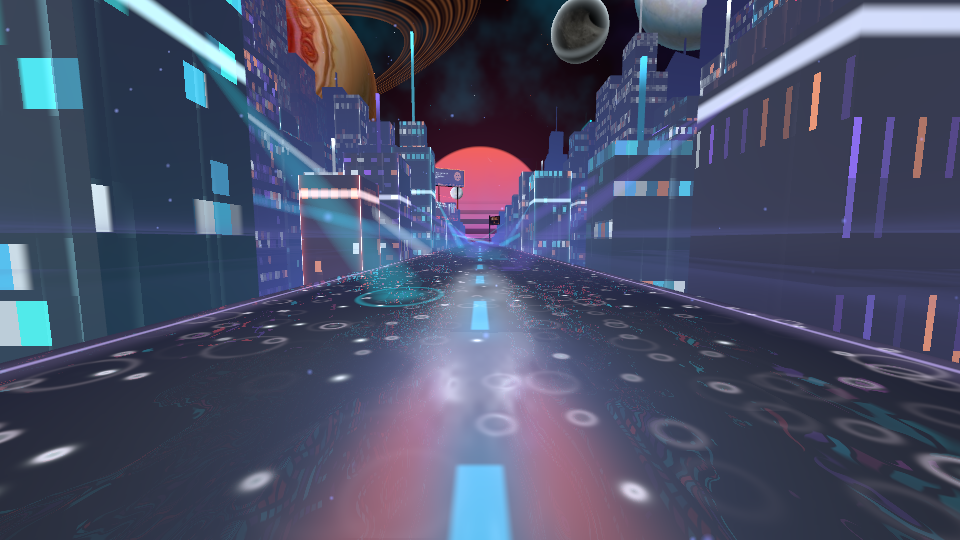
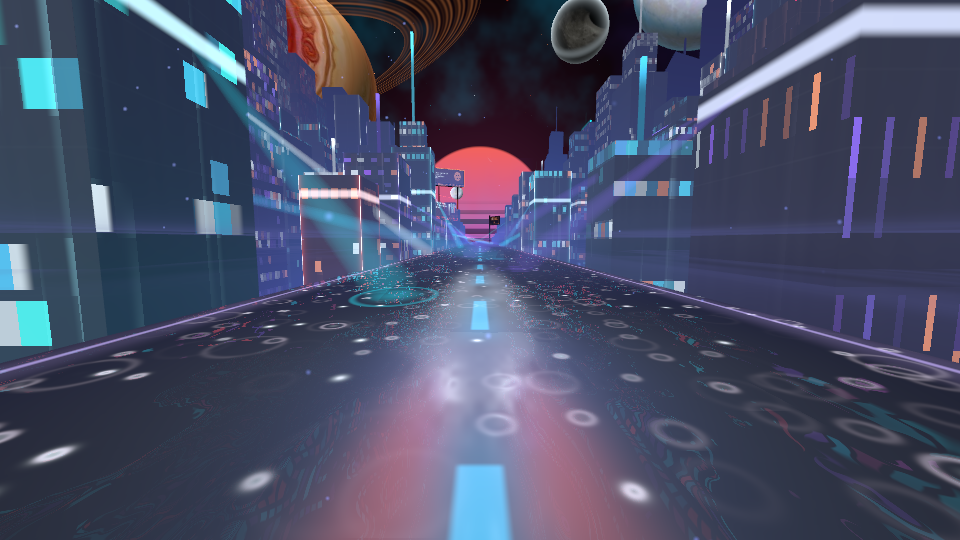
C4 : façades égaliseur (spectre dans SceneLight), micro-détail du béton, critère de palette mesuré, captures, journal
Claude-Session: https://claude.ai/code/session_018Ewppj4B38uuL8ceEto8xj

diff --git a/crates/cf-world-neon/src/atmosphere/light.rs b/crates/cf-world-neon/src/atmosphere/light.rs
@@ -279,8 +279,8 @@ impl SceneLight {
             source: rel(self.source).extend((self.ground_y - origin.y) as f32),
             ..SceneLightParams::default()
         };
-        for (i, quad) in self.spectrum.chunks_exact(4).enumerate() {
-            out.spectrum[i] = Vec4::new(quad[0], quad[1], quad[2], quad[3]);
+        for (slot, quad) in out.spectrum.iter_mut().zip(self.spectrum.as_chunks::<4>().0) {
+            *slot = Vec4::from_array(*quad);
         }
         for (i, tube) in self.tubes.iter().enumerate() {
             out.tube_pos[i] = rel(tube.position).extend(0.0);

diff --git a/docs/worldbuilding/CHANTIERS.md b/docs/worldbuilding/CHANTIERS.md
@@ -170,7 +170,7 @@ visuelle `Δ`.
 
 **Acceptation**
 
-- [ ] Critère de palette de DA §1.1 sur capture (70 % des émissifs dans la dominante ou l'accent, `ice` < 2 %).
+- [~] Critère de palette de DA §1.1 sur capture (70 % des émissifs dans la dominante ou l'accent, `ice` < 2 %). (tenu : 93 %, 93 %, 74 % ; teintes prises aux pics de l'histogramme, sans post-traitement)
 - [x] Une fenêtre ne dépasse jamais `0,9·θ_b` (test du shader ou de la fonction miroir en Rust).
 - [x] Toujours un seul lot de dessin pour les pavés de la ville. (aucun matériau ni maillage ajouté : un champ d'uniformes de plus)
 - [x] Captures `docs/captures/C4/` : sec, mouillé, kick, calme contre sommet.
@@ -329,7 +329,7 @@ Statuts : ⬜ à faire · 🟨 en cours (le journal dit où reprendre) · ✅ te
 | C1 | Signaux et dramaturgie | ✅ | voir `git log` (dernier commit « C1 ») | Sur le matériel cible : seuils de `z` des transitoires et étalonnage `FFT_TO_RMS` sur une vraie entrée ligne/micro ; ressenti du creux d'avant-drop. Routage non encore lu par les shaders (C2 à C4). |
 | C2 | Image finale | ✅ | voir `git log` (« C2 ») | Critères `[~]` : Ȳ et bloom mesurés sur la démo, pas sur la ville (à refaire en C3/C4) ; référence de parité Sillage non régénérée (bun/Playwright absents) ; remise à zéro GPU de la persistance non testée ; rayons à valider à l'œil. Matériel cible : cadence, bloom fin, couleurs sur projecteur. |
 | C3 | Atmosphère et profondeur | ✅ | voir `git log` (« C3 ») | Critères `[~]` : séparation des plans à rejuger sur capture après C4 (corps de façade trop clairs aujourd'hui) ; coût GPU aux trois paliers non mesuré. Matériel cible : densité `σ_t·ρ` et luminance de la brume sur projecteur, lisibilité de la coquille de kick, taille des poussières. `FogReach` publié mais pas encore lu par le culling (C7) ; `AtmosphereLook::apnea` pas encore écrit (EV4, C7) ; `SceneLight` (principale, remplissage, contre-jour) publié mais l'ombrage des faces est pour C4. |
-| C4 | Sol, façades et matériaux | 🟨 | voir `git log` (« C4 ») | Fait : relief des façades, fenêtres hiérarchisées et plafonnées, grain, flaque de lumière et ondes de kick de la route. Reste : rugosité réactive, reflet des fenêtres aligné, micro-détail et halo des façades, vu-mètre, néons à cœur blanc, fenêtres habitées, critère de palette. Voir le journal (point de reprise numéroté). |
+| C4 | Sol, façades et matériaux | 🟨 | voir `git log` (« C4 ») | Fait : relief des façades, fenêtres hiérarchisées et plafonnées, vu-mètre, micro-détail, néons d'arête à cœur blanc, grain, flaque de lumière, ondes de kick et reflet des fenêtres de la route. Reste : fenêtres habitées, halo des sockets, profil néon des enseignes, rugosité réactive ; vu-mètre à juger à l'œil. Voir le journal (point de reprise numéroté). |
 | C5 | Ville : distribution et archétypes | ⬜ | — | — |
 | C6 | Ville : habillage | ⬜ | — | — |
 | C7 | Tunnel, événements, LOD et culling | ⬜ | — | — |
@@ -364,6 +364,15 @@ non tenus et pourquoi, point de reprise si le chantier reste 🟨.
 - `facade_reflection` (route) suit la hiérarchie des fenêtres (`0,18 + 0,42·Δ`, étages entiers) : le reflet ne montre plus
   davantage de fenêtres que la façade.
 
+**Fait (vu-mètre, micro-détail, palette)**
+- Façades égaliseur : une tour sur huit, chaque travée lit une bande du spectre lissé (`SceneLight::spectrum`, 32 bandes
+  ajoutées au bloc) et s'allume jusqu'à son niveau, `lit = step(j/N_ét, S(f_i))`. À plat en respiration ou flashs coupés
+  (côté Rust, testé) ; la fenêtre reste plafonnée à `0,9·θ_b`. Miroir Rust `meter_lit`.
+- Micro-détail du béton : coulures verticales et joints de banche tous les 3 m, effacés par `fwidth`.
+- Critère de palette, mesuré sur capture (émissifs `Y > 0,2` teintés, fenêtres de ±25° autour des deux pics de teinte) :
+  calme 93 %, sommet 93 %, mouillé 74 % (≥ 70 %) ; `Y > 0,8` : 0,41 %, 1,59 %, 0,38 % (< 2 %). Limite : les deux teintes sont
+  les pics de l'histogramme (204° et 350°), pas les rôles de `ScenePalette`, et le ciel (soleil, planètes) est dans la mesure.
+
 **Mesures (city_demo, rendu logiciel, sans post-traitement, luminance linéaire) : avant C3 → C3 → C4**
 - Calme : Ȳ 0,073 → 0,075 → **0,061** (cible 0,06 de DA §3.1) ; pixels émissifs (`Y > 0,2`) 10,2 % → 6,8 %.
 - Sommet : Ȳ 0,097 → 0,100 → 0,089 ; l'écart sommet/calme passe de +33 % à +46 %.
@@ -379,12 +388,14 @@ non tenus et pourquoi, point de reprise si le chantier reste 🟨.
 1. Route (`road.wesl`, `road/`) : rugosité réactive (`Target::Puddles`, pas encore dans le bloc), aberration des reflets
    analytiques. Pas de miroir Rust ni de test pour `kick_ripples` et la flaque de lumière. Les constantes de la part
    allumée sont recopiées en dur dans `facade_reflection` (0,18 ; 0,42 ; 0,03 ; 0,9) : à tenir alignées avec `facade.wesl`.
-2. Façades : micro-détail (coulures, joints, effacé par `fwidth`), halo des 4 sockets proches, vu-mètre sur
-   `FilteredSignals::spectrum` (à ajouter au bloc ou à `FacadeParams`), chanfrein lumineux de toit sur 1 immeuble sur 3.
+2. Façades : halo des 4 sockets proches (`L_halo`, P2 §1.2), chanfrein lumineux de toit sur 1 immeuble sur 3. Le vu-mètre et le
+   micro-détail sont écrits et compilent, mais **pas jugés à l'œil** : aucune tour égaliseur n'est identifiable sur les captures
+   de `city_demo` (cadrage, 1 tour sur 8) ; à vérifier sur une vue qui en montre une, avec un vrai spectre.
 3. Enseignes (`sign.wesl`) : profil cœur blanc / halo saturé comme les arêtes (fait pour `facade.wesl`), paliers E1 à E4,
    saturation liée à `HM` ; ranger la bande de caisse claire et la ceinture lumineuse dans le palier E2.
 4. Fenêtres habitées (DA §5, idée 1) avec repli en aplat au loin.
-5. Critère de palette (70 % des émissifs dans la dominante ou l'accent) avec `cf_render::postfx::measure` sur les captures.
+5. Critère de palette : tenu sur capture par un script (voir plus haut) ; à refaire avec `cf_render::postfx::measure` et les
+   rôles de la palette, post-traitement compris.
 6. Le plafond couvre la fenêtre et la traîne de la voiture (charleston et pouls de la ville passent par `lit`, donc dedans).
    La bande de caisse claire et la ceinture lumineuse ne sont pas des fenêtres : à ranger dans les paliers E2 avec les néons (point 3).
 
